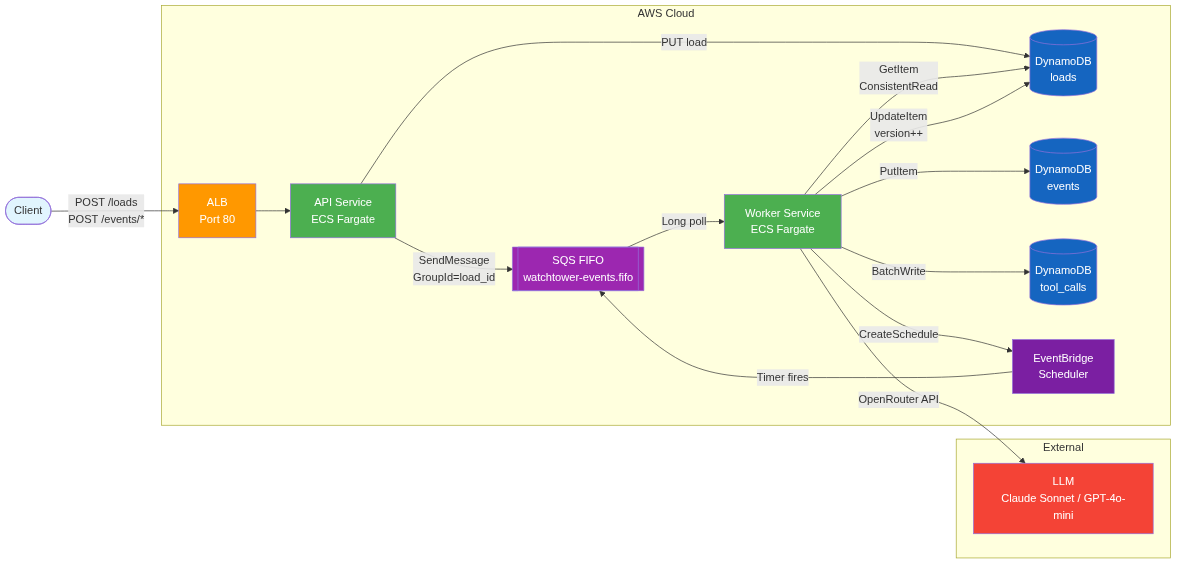
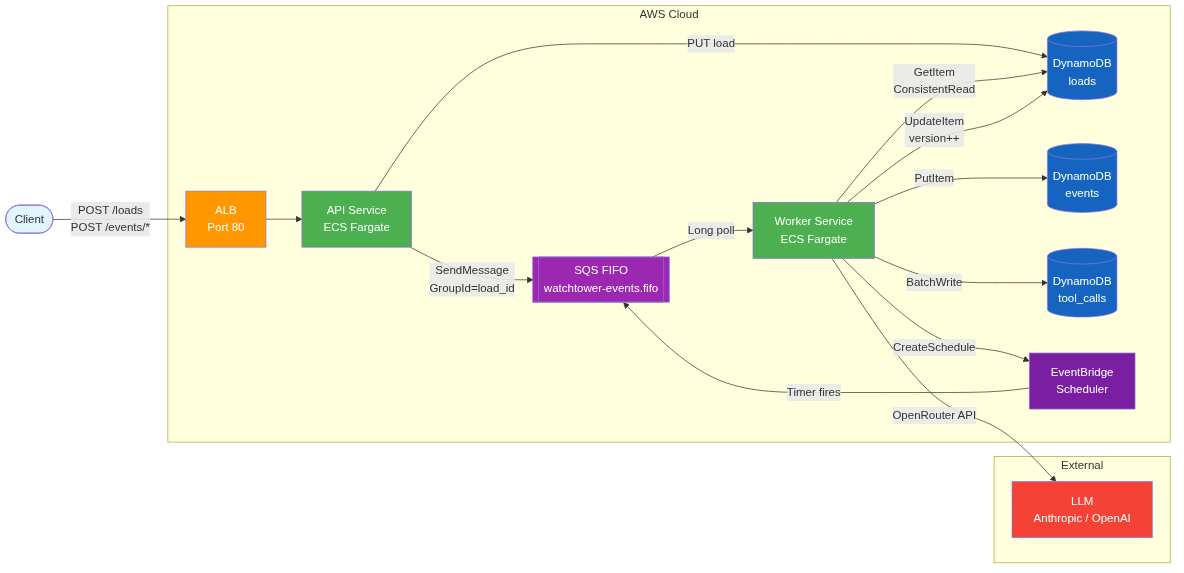
fix: update diagram LLM label, add make logs command
- Diagram: "Claude Sonnet / GPT-4o-mini" → "Anthropic / OpenAI"
- Makefile: add `make logs` to fetch CloudWatch deployed run evidence
- CLAUDE.md: document make logs command

diff --git a/CLAUDE.md b/CLAUDE.md
@@ -13,6 +13,7 @@ make format                 # Ruff format
 make up                     # docker-compose up (LocalStack + API + Worker)
 make down                   # docker-compose down
 make run                    # Local dev server (uvicorn, no queue)
+make logs                   # Fetch latest CloudWatch logs → runs/deployed-run-evidence.log
 ```
 
 ## Architecture